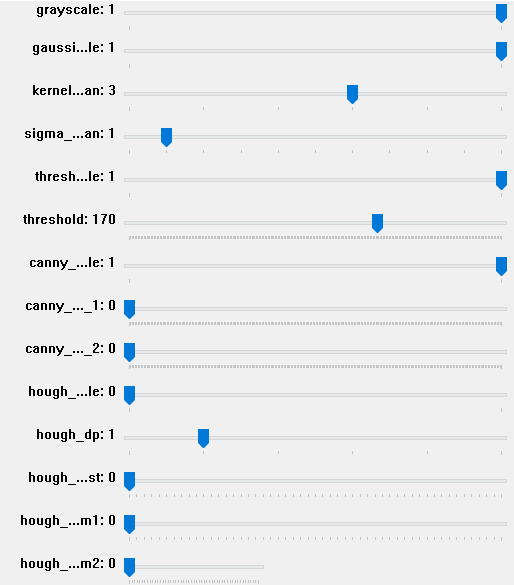
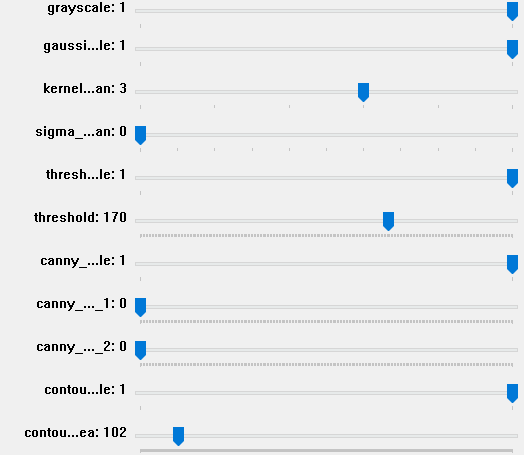
Added contour finding

diff --git a/lab5 - images project/dice_recognition.py b/lab5 - images project/dice_recognition.py
@@ -24,16 +24,14 @@ def main():
     cv2.createTrackbar('canny_toggle', 'window', 0, 1, null_func)
     cv2.createTrackbar('canny_thresh_1', 'window', 0, 255, null_func)
     cv2.createTrackbar('canny_thresh_2', 'window', 0, 255, null_func)
-    cv2.createTrackbar('hough_toggle', 'window', 0, 1, null_func)
-    cv2.createTrackbar('hough_dp', 'window', 1, 5, null_func)
-    cv2.createTrackbar('hough_min_dist', 'window', 0, 50, null_func)
-    cv2.createTrackbar('hough_param1', 'window', 0, 50, null_func)
-    cv2.createTrackbar('hough_param2', 'window', 0, 50, null_func)
+    cv2.createTrackbar('contour_toggle', 'window', 0, 1, null_func)
+    cv2.createTrackbar('contour_area', 'window', 0, 1000, null_func)
 
     base_img = cv2.imread('dices.jpg')
 
     while True:
         img = base_img.copy()
+        img_2 = base_img.copy()
 
         gray_bool       = cv2.getTrackbarPos('grayscale', 'window') == 1
         gaussian_bool   = cv2.getTrackbarPos('gaussian_toggle', 'window') == 1
@@ -44,11 +42,8 @@ def main():
         canny_bool      = cv2.getTrackbarPos('canny_toggle', 'window') == 1
         canny_thresh_1  = cv2.getTrackbarPos('canny_thresh_1', 'window')
         canny_thresh_2  = cv2.getTrackbarPos('canny_thresh_2', 'window')
-        hough_bool      = cv2.getTrackbarPos('hough_toggle', 'window') == 1
-        hough_dp        = cv2.getTrackbarPos('hough_dp', 'window')
-        hough_m_dist    = cv2.getTrackbarPos('hough_min_dist', 'window')
-        hough_param_1   = cv2.getTrackbarPos('hough_param1', 'window')
-        hough_param_2   = cv2.getTrackbarPos('hough_param2', 'window')
+        contour_bool    = cv2.getTrackbarPos('contour_toggle', 'window') == 1
+        area            = cv2.getTrackbarPos('contour_area', 'window')
 
         if gray_bool:
             img = cv2.cvtColor(img, cv2.COLOR_RGB2GRAY)
@@ -63,13 +58,17 @@ def main():
         if canny_bool:
             img = cv2.Canny(img, canny_thresh_1, canny_thresh_2)
         
-        if hough_bool:
-            circles = cv2.HoughCircles(img, cv2.HOUGH_GRADIENT, hough_dp, hough_m_dist, hough_param_1, hough_param_2)
+        if contour_bool:
+            contours, _ = cv2.findContours(img, cv2.RETR_TREE, cv2.CHAIN_APPROX_SIMPLE)
             
-            if circles:
-                draw_circles(img, circles)
+            for contour in contours:
+                if cv2.contourArea(contour) > area:
+                    (x, y, w, h) = cv2.boundingRect(contour)
+                    cv2.rectangle(img_2, (x, y), (x+w, y+h), (0, 255, 0), 2)
 
-        cv2.imshow('Dices', img)
+
+        cv2.imshow('Transformed_img', img)
+        cv2.imshow('Final_img', img_2)
 
         if cv2.waitKey(1) == 1: break
     
